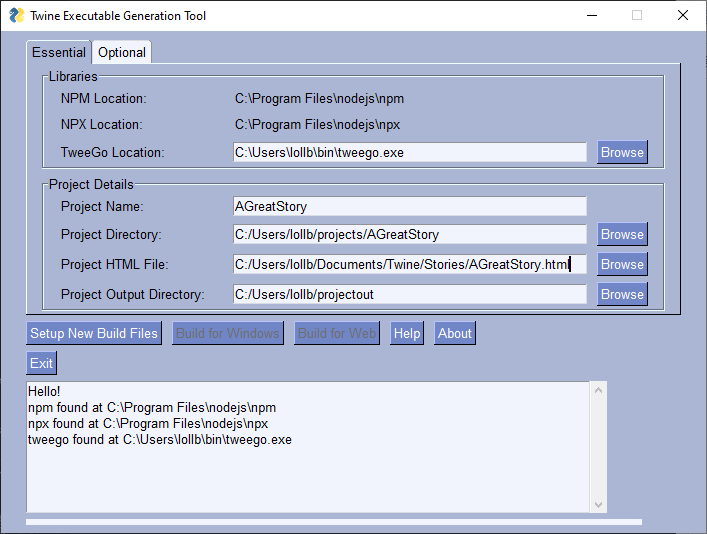
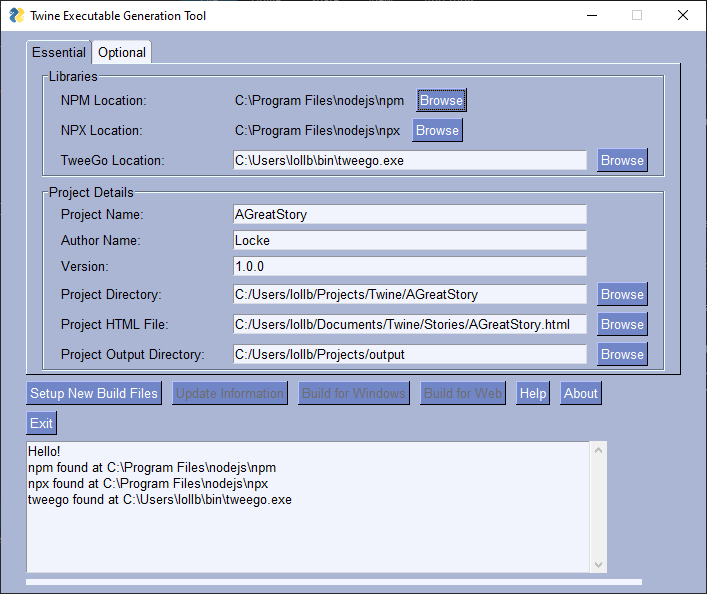
npm dist browser, new screenshot

diff --git a/builder.py b/builder.py
@@ -29,8 +29,10 @@ class Builder(core.Core):
         sg.theme("LightBlue2")
         tab1_layout = [
             [sg.Frame(
-                layout=[[sg.Text('NPM Location:', size=entry_size), sg.Text(libs[NPM_LOCATION], key=NPM_LOCATION)],
-                        [sg.Text('NPX Location:', size=entry_size), sg.Text(libs[NPX_LOCATION], key=NPX_LOCATION)],
+                layout=[[sg.Text('NPM Location:', size=entry_size), sg.Text(libs[NPM_LOCATION], key=NPM_LOCATION),
+                         sg.FileBrowse()],
+                        [sg.Text('NPX Location:', size=entry_size), sg.Text(libs[NPX_LOCATION], key=NPX_LOCATION),
+                         sg.FileBrowse()],
                         [sg.Text('TweeGo Location:', size=entry_size),
                          sg.InputText(key=TWEEGO_LOCATION, default_text=libs[TWEEGO_LOCATION],
                                       size=text_field_size), sg.FileBrowse()]],
